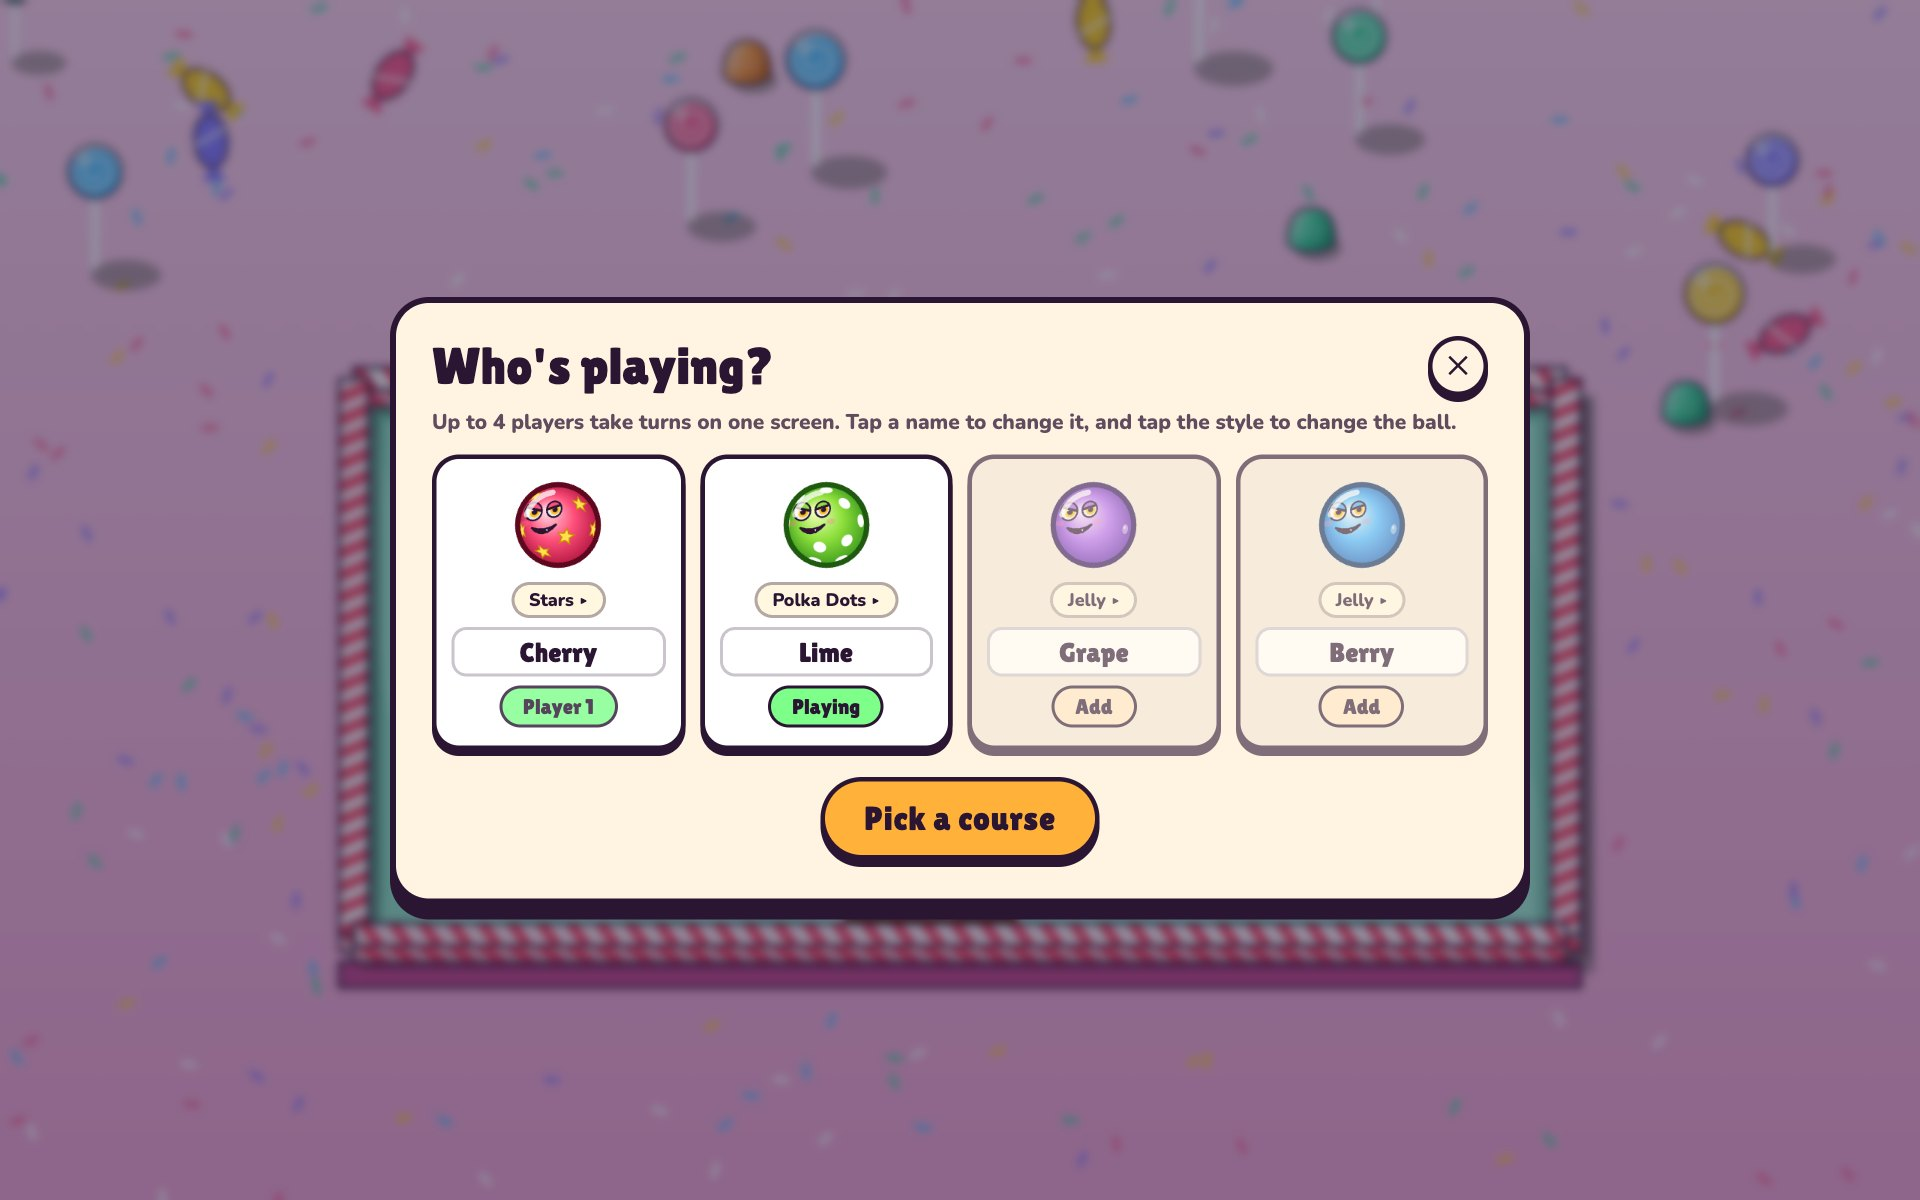
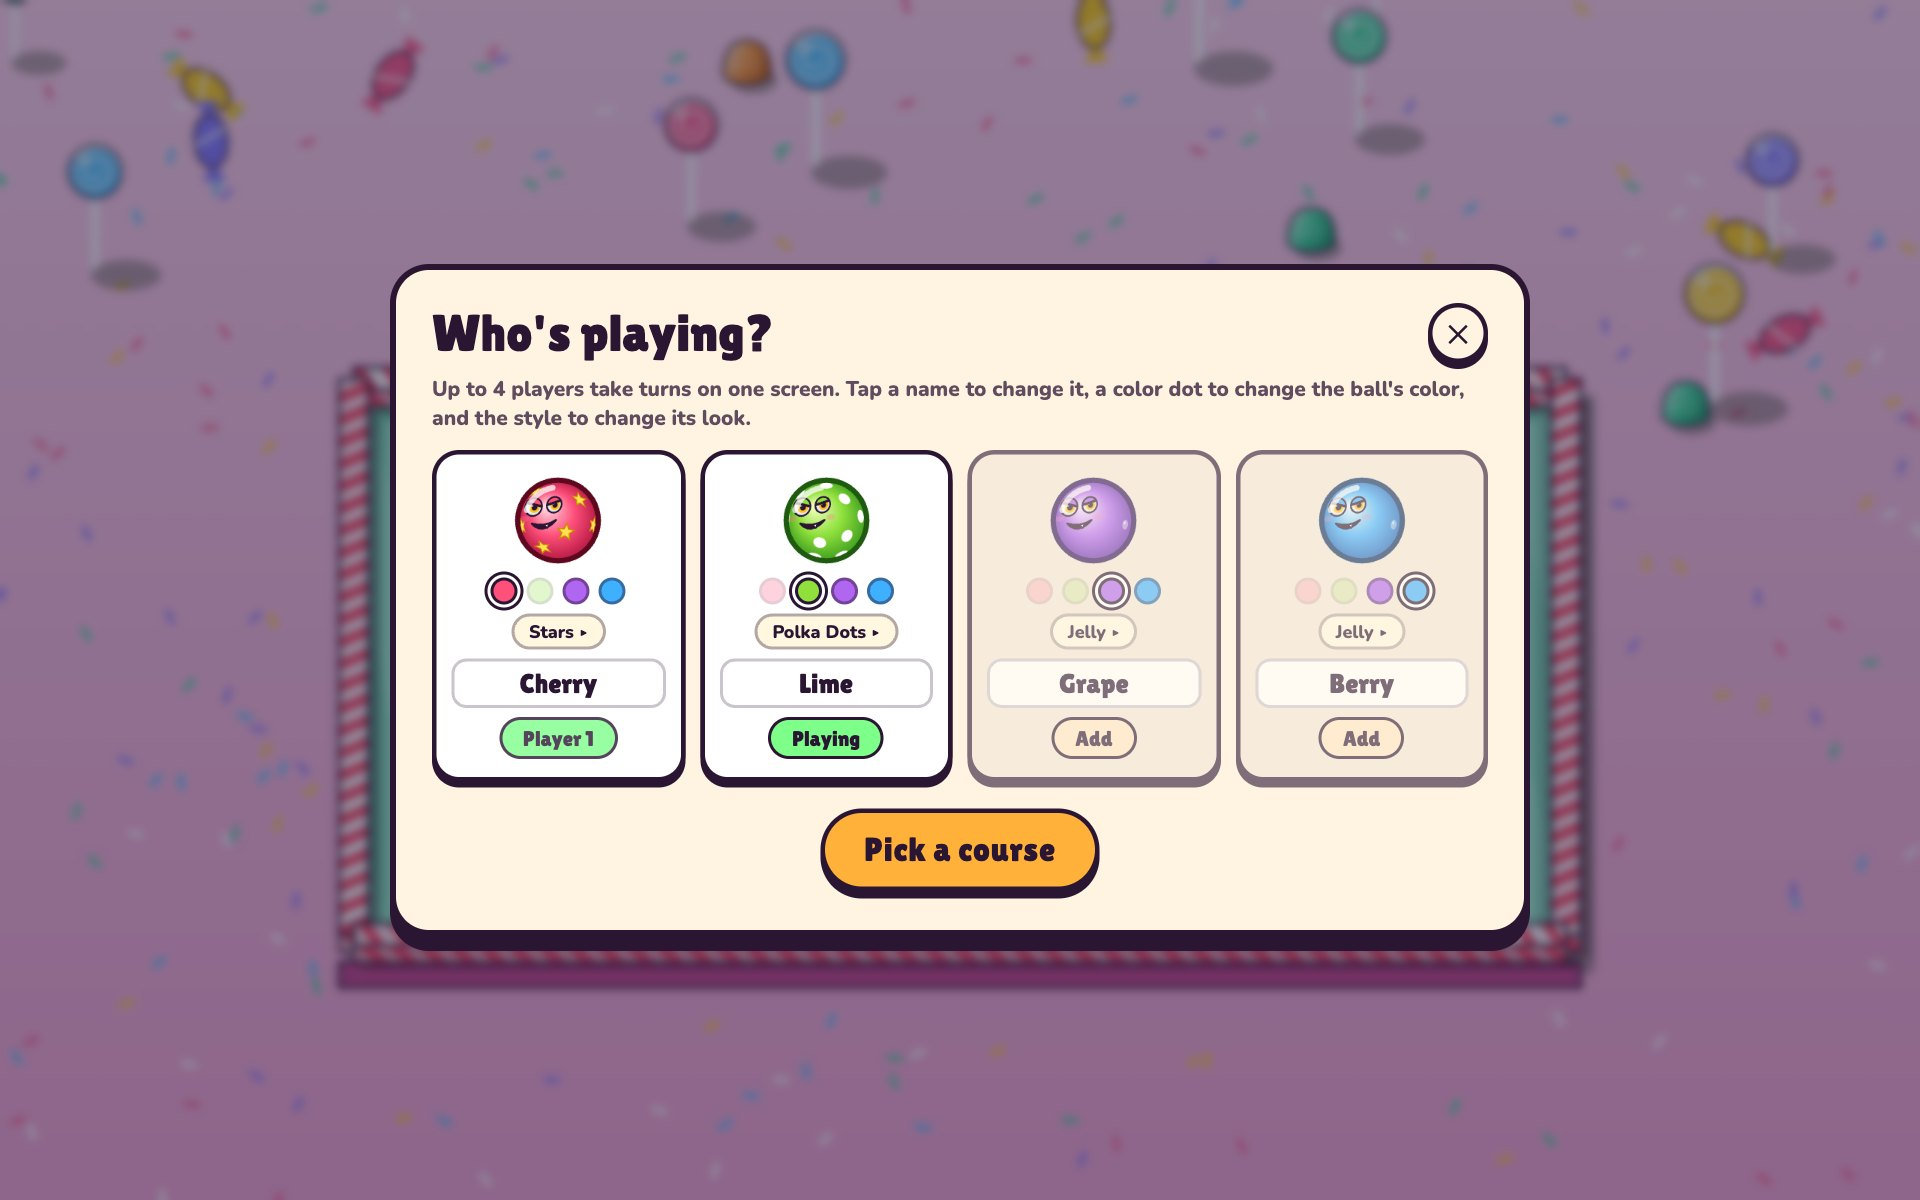
Let each player pick ball color on setup screen

Changed region(s): [[0.1875, 0.2158, 0.8125, 0.8017]]

diff --git a/public/js/ui.js b/public/js/ui.js
@@ -6,6 +6,7 @@ import { drawBall, STYLES } from './ballart.js';
 import { TROPHIES, trophyById, hasStyle, unlockedStyles } from './trophies.js';
 import { facingCamera, roll } from './spin.js';
 import { PLAYER_COLORS, resultName, MAX_STROKES, TILT } from './game.js';
+import { GLOOP_COLORS } from './gloop-art.js';
 
 const $ = (id) => document.getElementById(id);
 const DEFAULT_NAMES = { cherry: 'Cherry', lime: 'Lime', grape: 'Grape', berry: 'Berry' };
@@ -233,26 +234,67 @@ export class UI {
   }
 
   // ---------- Player setup ----------
+  // Each slot has its own ball color. Two playing players never share a color: a color
+  // another playing player has is dimmed, and a slot that joins with a taken color gets a
+  // free one.
   openSetup() {
-    const saved = this.store.data.players;
+    const saved = this.store.data.players.filter((p) => PLAYER_COLORS.includes(p.color));
     const box = $('slots');
     box.textContent = '';
-    PLAYER_COLORS.forEach((color, i) => {
-      const p = saved.find((x) => x.color === color);
+    const free = PLAYER_COLORS.filter((c) => !saved.some((p) => p.color === c));
+    const slots = [];
+    const takenBy = (slot, c) => slots.some((s) => s !== slot && s.classList.contains('on') && s.dataset.color === c);
+    const refreshDots = () => {
+      for (const s of slots) {
+        for (const d of s.querySelectorAll('.dot')) {
+          d.classList.toggle('pick', d.dataset.c === s.dataset.color);
+          d.disabled = takenBy(s, d.dataset.c);
+        }
+      }
+    };
+    PLAYER_COLORS.forEach((_, i) => {
+      const p = saved[i];
       const on = i === 0 || !!p;
+      let color = p ? p.color : free.shift();
       const slot = document.createElement('div');
+      slots.push(slot);
       slot.className = 'slot' + (on ? ' on' : '');
       slot.dataset.color = color;
       const styles = unlockedStyles(this.store);
       let style = p && hasStyle(this.store, p.style) ? p.style : 'jelly';
       slot.dataset.style = style;
-      slot.innerHTML = `<img src="${ballIcon(color, 64, 'sour', style)}" alt=""><button class="slot-style" type="button" aria-label="Ball style"></button><input type="text" maxlength="12" value="${(p && p.name) || DEFAULT_NAMES[color]}" aria-label="Player ${i + 1} name"><button class="slot-tog" type="button">${on ? (i === 0 ? 'Player 1' : 'Playing') : 'Add'}</button>`;
+      const dots = PLAYER_COLORS.map((c) => `<button class="dot" type="button" data-c="${c}" style="--c:${GLOOP_COLORS[c][1]}" aria-label="${DEFAULT_NAMES[c]} color"></button>`).join('');
+      slot.innerHTML = `<button class="slot-ball" type="button" aria-label="Change ball color"><img src="${ballIcon(color, 64, 'sour', style)}" alt=""></button><div class="slot-dots">${dots}</div><button class="slot-style" type="button" aria-label="Ball style"></button><input type="text" maxlength="12" value="${(p && p.name) || DEFAULT_NAMES[color]}" aria-label="Player ${i + 1} name"><button class="slot-tog" type="button">${on ? (i === 0 ? 'Player 1' : 'Playing') : 'Add'}</button>`;
       const sb = slot.querySelector('.slot-style');
+      const input = slot.querySelector('input');
       const showStyle = () => {
         sb.textContent = `${STYLES.find((x) => x.id === style).name}${styles.length > 1 ? ' ▸' : ''}`;
         slot.querySelector('img').src = ballIcon(color, 64, 'sour', style);
         slot.dataset.style = style;
       };
+      // A default name follows the color (Cherry becomes Lime); a name the player typed stays.
+      // A slot that is not playing and has the chosen color takes the color given up, so all
+      // four slots always show different colors.
+      const setColor = (c, quiet = false) => {
+        if (c === color || takenBy(slot, c)) return;
+        const old = color;
+        if (input.value.trim() === DEFAULT_NAMES[color]) input.value = DEFAULT_NAMES[c];
+        color = c;
+        slot.dataset.color = c;
+        showStyle();
+        for (const s of slots) if (s !== slot && s.dataset.color === c) s.setColor(old, true);
+        refreshDots();
+        if (!quiet) this.game.sfx.ui();
+      };
+      slot.setColor = setColor;
+      for (const d of slot.querySelectorAll('.dot')) d.addEventListener('click', () => setColor(d.dataset.c));
+      slot.querySelector('.slot-ball').addEventListener('click', () => {
+        const at = PLAYER_COLORS.indexOf(color);
+        for (let k = 1; k < PLAYER_COLORS.length; k++) {
+          const c = PLAYER_COLORS[(at + k) % PLAYER_COLORS.length];
+          if (!takenBy(slot, c)) return setColor(c);
+        }
+      });
       showStyle();
       sb.disabled = styles.length < 2;
       sb.addEventListener('click', () => {
@@ -265,11 +307,15 @@ export class UI {
       if (i === 0) tog.disabled = true;
       tog.addEventListener('click', () => {
         slot.classList.toggle('on');
-        tog.textContent = slot.classList.contains('on') ? 'Playing' : 'Add';
+        const nowOn = slot.classList.contains('on');
+        tog.textContent = nowOn ? 'Playing' : 'Add';
+        if (nowOn && takenBy(slot, slot.dataset.color)) slot.setColor(PLAYER_COLORS.find((c) => !takenBy(slot, c)));
+        refreshDots();
         this.game.sfx.ui();
       });
       box.appendChild(slot);
     });
+    refreshDots();
     this.el.menu.hidden = true;
     this.open('setup');
   }

diff --git a/public/css/style.css b/public/css/style.css
@@ -566,7 +566,12 @@ canvas#game { position: fixed; inset: 0; display: block; touch-action: none; }
 .slots { display: grid; grid-template-columns: repeat(auto-fit, minmax(150px, 1fr)); gap: 10px; margin: 6px 0 14px; }
 .slot { display: flex; flex-direction: column; align-items: center; gap: 6px; padding: 12px 10px; border: 3px solid var(--ink); border-radius: 18px; background: #f1e7d8; box-shadow: 0 4px 0 var(--ink); opacity: 0.6; transition: opacity 0.15s, background 0.15s; }
 .slot.on { background: #fff; opacity: 1; }
-.slot img { width: 64px; height: 64px; }
+.slot img { width: 64px; height: 64px; display: block; }
+.slot-ball { pointer-events: auto; padding: 0; border: 0; background: none; cursor: pointer; border-radius: 50%; }
+.slot-dots { display: flex; gap: 6px; }
+.slot-dots .dot { pointer-events: auto; width: 18px; height: 18px; padding: 0; border-radius: 50%; border: 2px solid rgba(42, 21, 51, 0.45); background: var(--c); cursor: pointer; }
+.slot-dots .dot.pick { border-color: var(--ink); box-shadow: 0 0 0 2px #fff, 0 0 0 4px var(--ink); }
+.slot-dots .dot:disabled { opacity: 0.25; cursor: default; }
 .slot input { pointer-events: auto; width: 100%; font-family: var(--font-display); font-size: 18px; text-align: center; border: 2px solid rgba(42, 21, 51, 0.25); border-radius: 10px; padding: 4px 6px; background: #fff; color: var(--ink); -webkit-user-select: text; user-select: text; }
 .slot-tog { pointer-events: auto; font-family: var(--font-display); font-size: 14px; padding: 4px 14px; border-radius: 999px; border: 2px solid var(--ink); background: var(--cream-2); color: var(--ink); cursor: pointer; }
 .slot.on .slot-tog { background: #7dff8a; }
@@ -609,8 +614,13 @@ table.sc td.tot small { display: block; font-family: var(--font-body); font-size
   .par-tag { font-size: 22px; }
 }
 @media (max-height: 520px) {
-  .slot { padding: 8px; }
-  .slot img { width: 44px; height: 44px; }
+  .slot { padding: 6px 8px; gap: 4px; }
+  .slot img { width: 40px; height: 40px; }
+  .slots { margin: 4px 0 8px; grid-template-columns: repeat(4, minmax(0, 1fr)); gap: 8px; }
+  .slot-dots .dot { width: 15px; height: 15px; }
+  .slot input { font-size: 15px; padding: 2px 6px; }
+  .slot-tog { padding: 2px 12px; }
+  .setup-card .sub { font-size: 13px; margin: 2px 0 4px; }
   .course-list { grid-template-columns: repeat(4, 1fr); gap: 8px; }
   .course span { display: none; }
   .course b { font-size: 16px; }

diff --git a/public/index.html b/public/index.html
@@ -67,7 +67,7 @@
         <h2>Who's playing?</h2>
         <button class="icon-btn close" data-act="close" aria-label="Back">✕</button>
       </div>
-      <p class="sub">Up to 4 players take turns on one screen. Tap a name to change it, and tap the style to change the ball.</p>
+      <p class="sub">Up to 4 players take turns on one screen. Tap a name to change it, a color dot to change the ball's color, and the style to change its look.</p>
       <div id="slots" class="slots"></div>
       <div class="row"><button class="btn primary" data-act="courses">Pick a course</button></div>
     </div>
@@ -177,7 +177,7 @@
         </div>
         <div class="how-block">
           <h3>Trophies</h3>
-          <p>Win trophies for great shots, like a hole in one or a bank shot. Many trophies come from how the ball moves: bounce off walls, bumpers or another player's ball, slide on ice, ride a belt, or knock a friend's ball in. Some trophies unlock new ball styles. Pick a style for each player before the round.</p>
+          <p>Win trophies for great shots, like a hole in one or a bank shot. Many trophies come from how the ball moves: bounce off walls, bumpers or another player's ball, slide on ice, ride a belt, or knock a friend's ball in. Some trophies unlock new ball styles. Pick a color and a style for each player before the round.</p>
         </div>
         <div class="how-block">
           <h3>Score</h3>

diff --git a/public/sw.js b/public/sw.js
@@ -1,5 +1,5 @@
 // Network first, cache as fallback: updates show at once, and the game still loads offline.
-const CACHE = 'gloop-golf-v15';
+const CACHE = 'gloop-golf-v16';
 const CORE = [
   './', 'index.html', 'css/style.css', 'manifest.webmanifest',
   'js/main.js', 'js/game.js', 'js/view.js', 'js/golf.js', 'js/course.js', 'js/audio.js', 'js/baked.js', 'js/physics.js', 'js/store.js', 'js/ui.js', 'js/util.js', 'js/gloop-art.js', 'js/spin.js', 'js/themes.js', 'js/scenery.js', 'js/ballart.js', 'js/trophies.js',

diff --git a/README.md b/README.md
@@ -40,7 +40,7 @@ The human part was direction and taste: the game idea, the feedback on looks and
 | ![Ball hits](docs/screenshots/hits.jpg) | ![Sunny Beach](docs/screenshots/beach.jpg) |
 | **Candy Factory: portals** | **Frosty Peak: ice and boost pads** |
 | ![Candy Factory](docs/screenshots/candy.jpg) | ![Frosty Peak](docs/screenshots/frost.jpg) |
-| **Up to 4 players, each with a ball style** | **Pick a course** |
+| **Up to 4 players: pick a color and a style** | **Pick a course** |
 | ![Players](docs/screenshots/setup.jpg) | ![Courses](docs/screenshots/courses.jpg) |
 | **Scorecard** | **Trophies** |
 | ![Scorecard](docs/screenshots/scorecard.jpg) | ![Trophies](docs/screenshots/trophies.jpg) |
@@ -95,7 +95,7 @@ Turn off "Take turns" in Settings to play the classic way: each player putts unt
 - **Balls that hit each other**: Carom! (bounce off another player's ball and sink), Helping Hand, Double Drop, Strike!, Chain Reaction, Dunk Tank
 - **Courses**: one for each course, World Tour, Clean Card, Under Par
 
-Seven trophies unlock **ball styles**: Polka Dots, Stars, Hearts, Flowers, Stripes, Sprinkles, and Snowflakes. Pick a style for each player before the round. Trophies, best scores, and settings are saved in the browser (`localStorage`).
+Seven trophies unlock **ball styles**: Polka Dots, Stars, Hearts, Flowers, Stripes, Sprinkles, and Snowflakes. Pick a color and a style for each player before the round. Trophies, best scores, and settings are saved in the browser (`localStorage`).
 
 ## Controls
 
